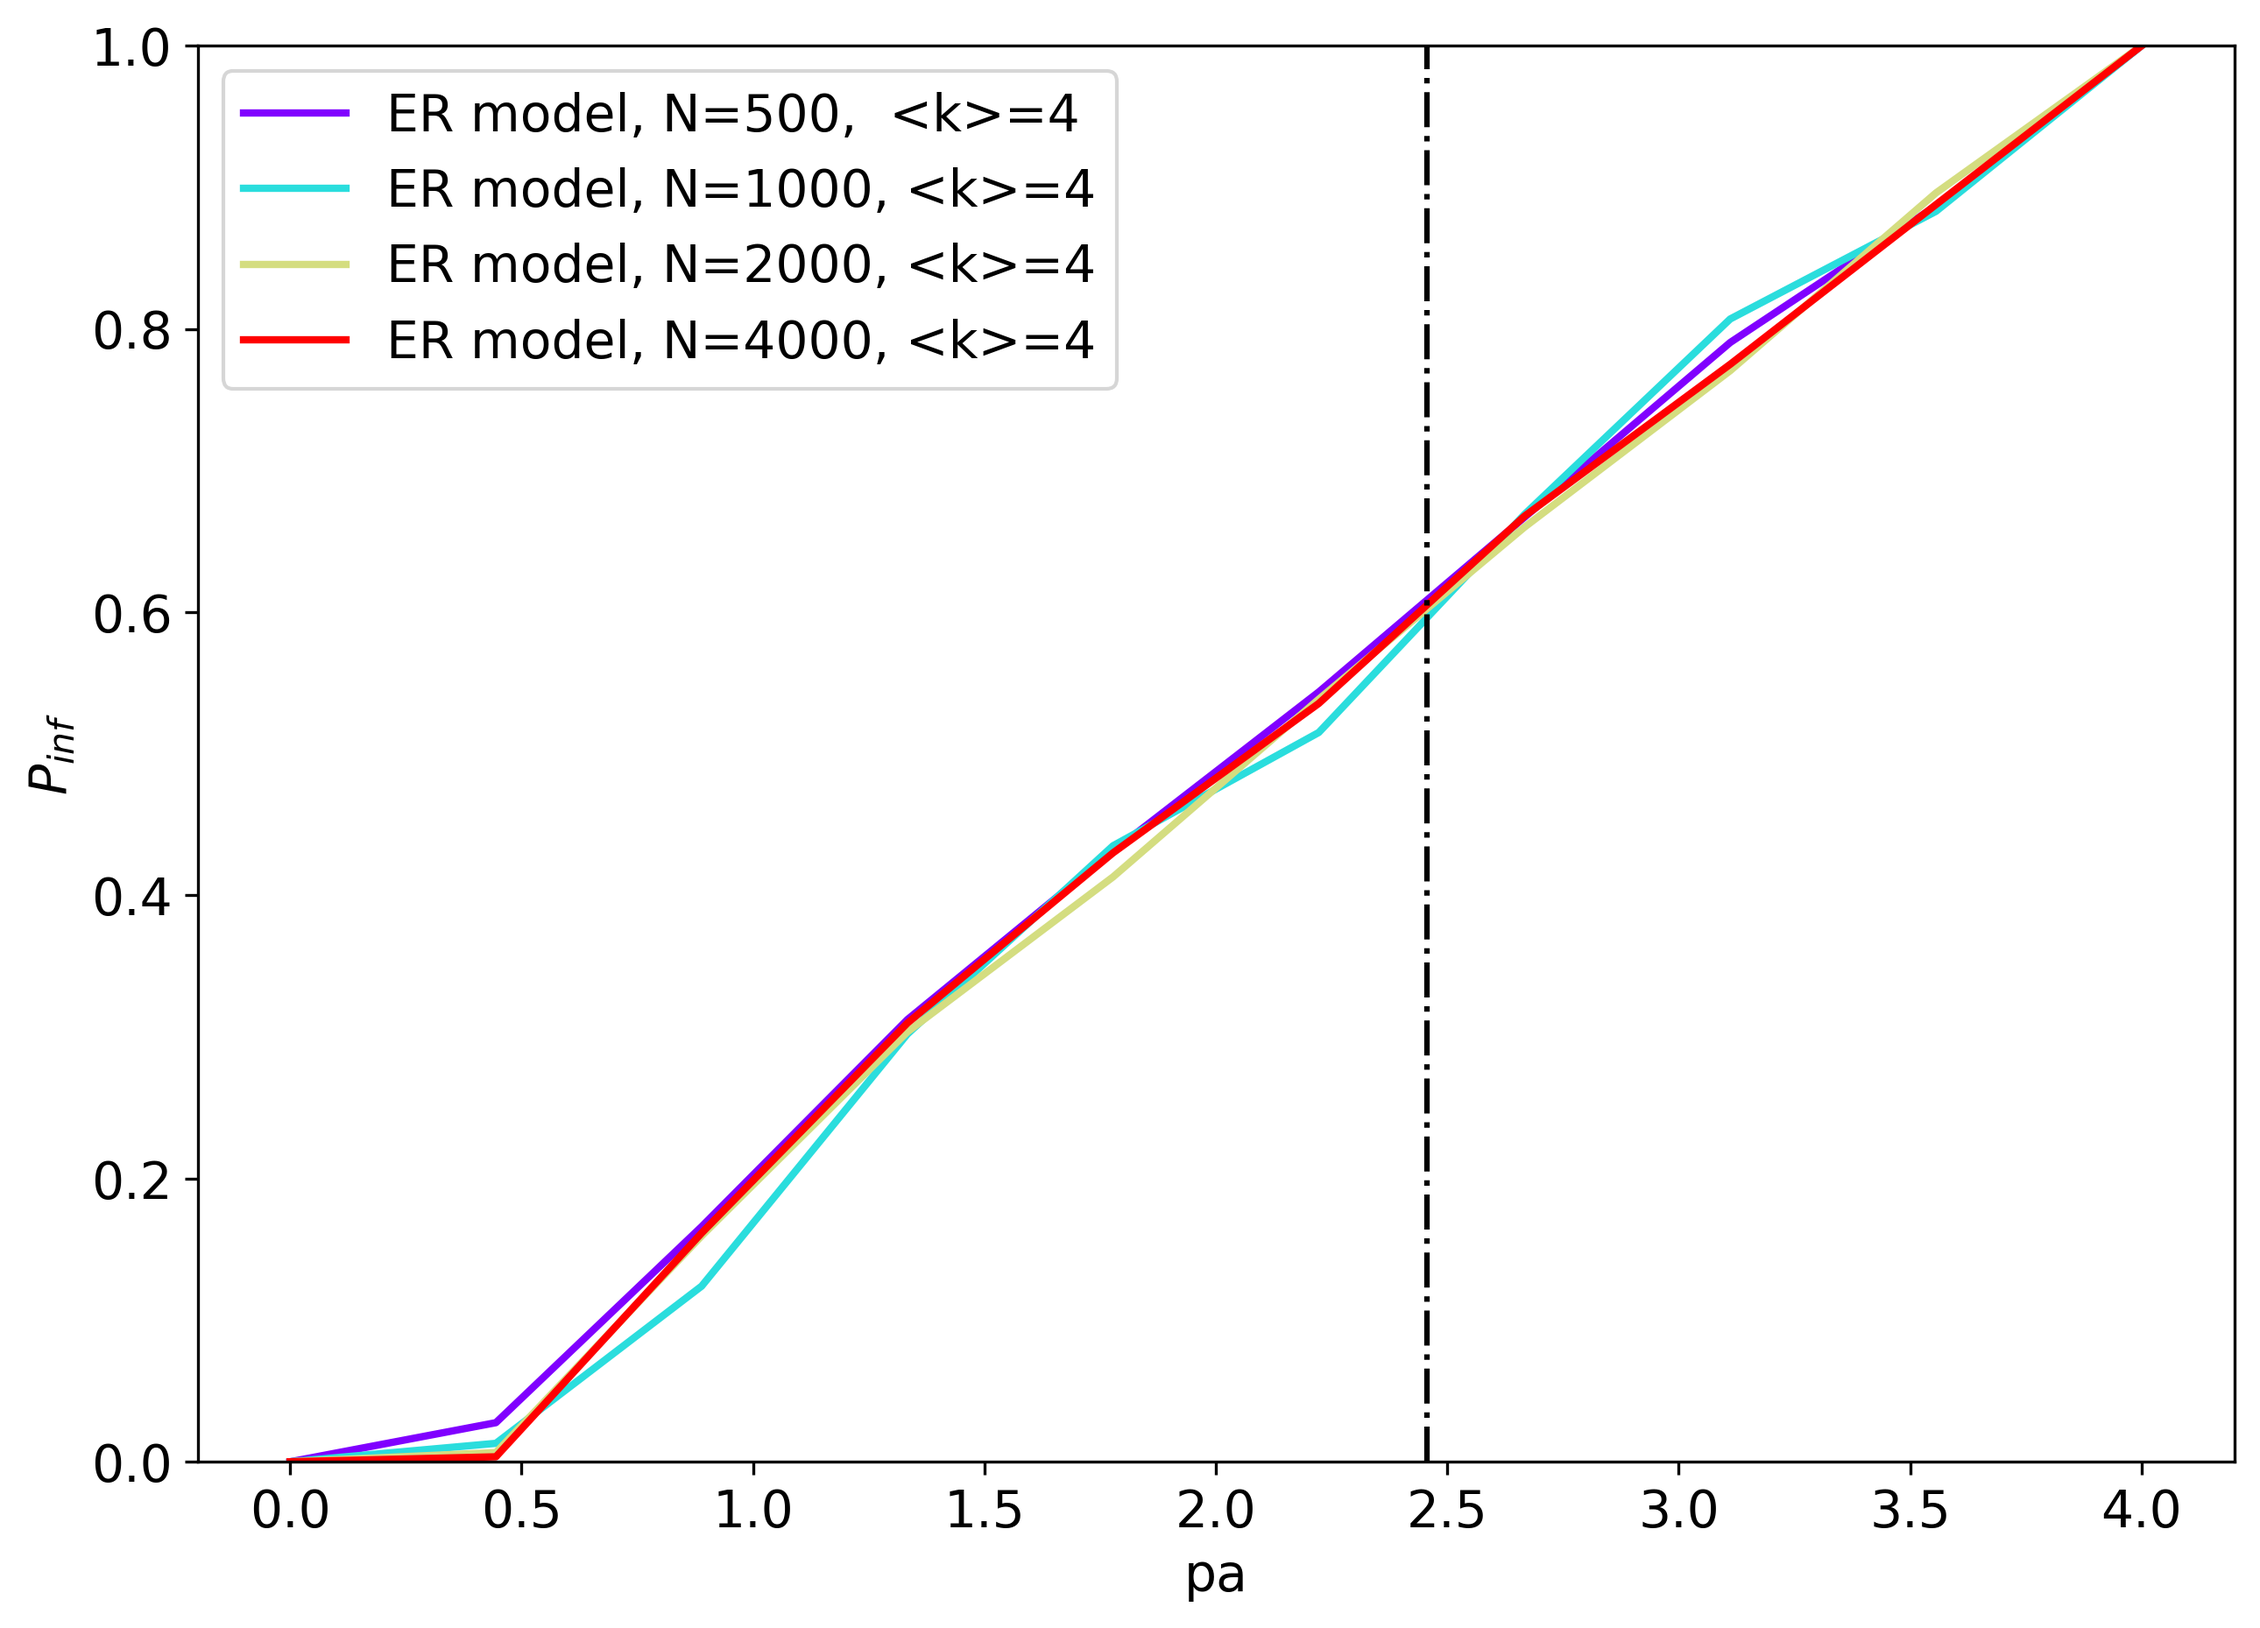
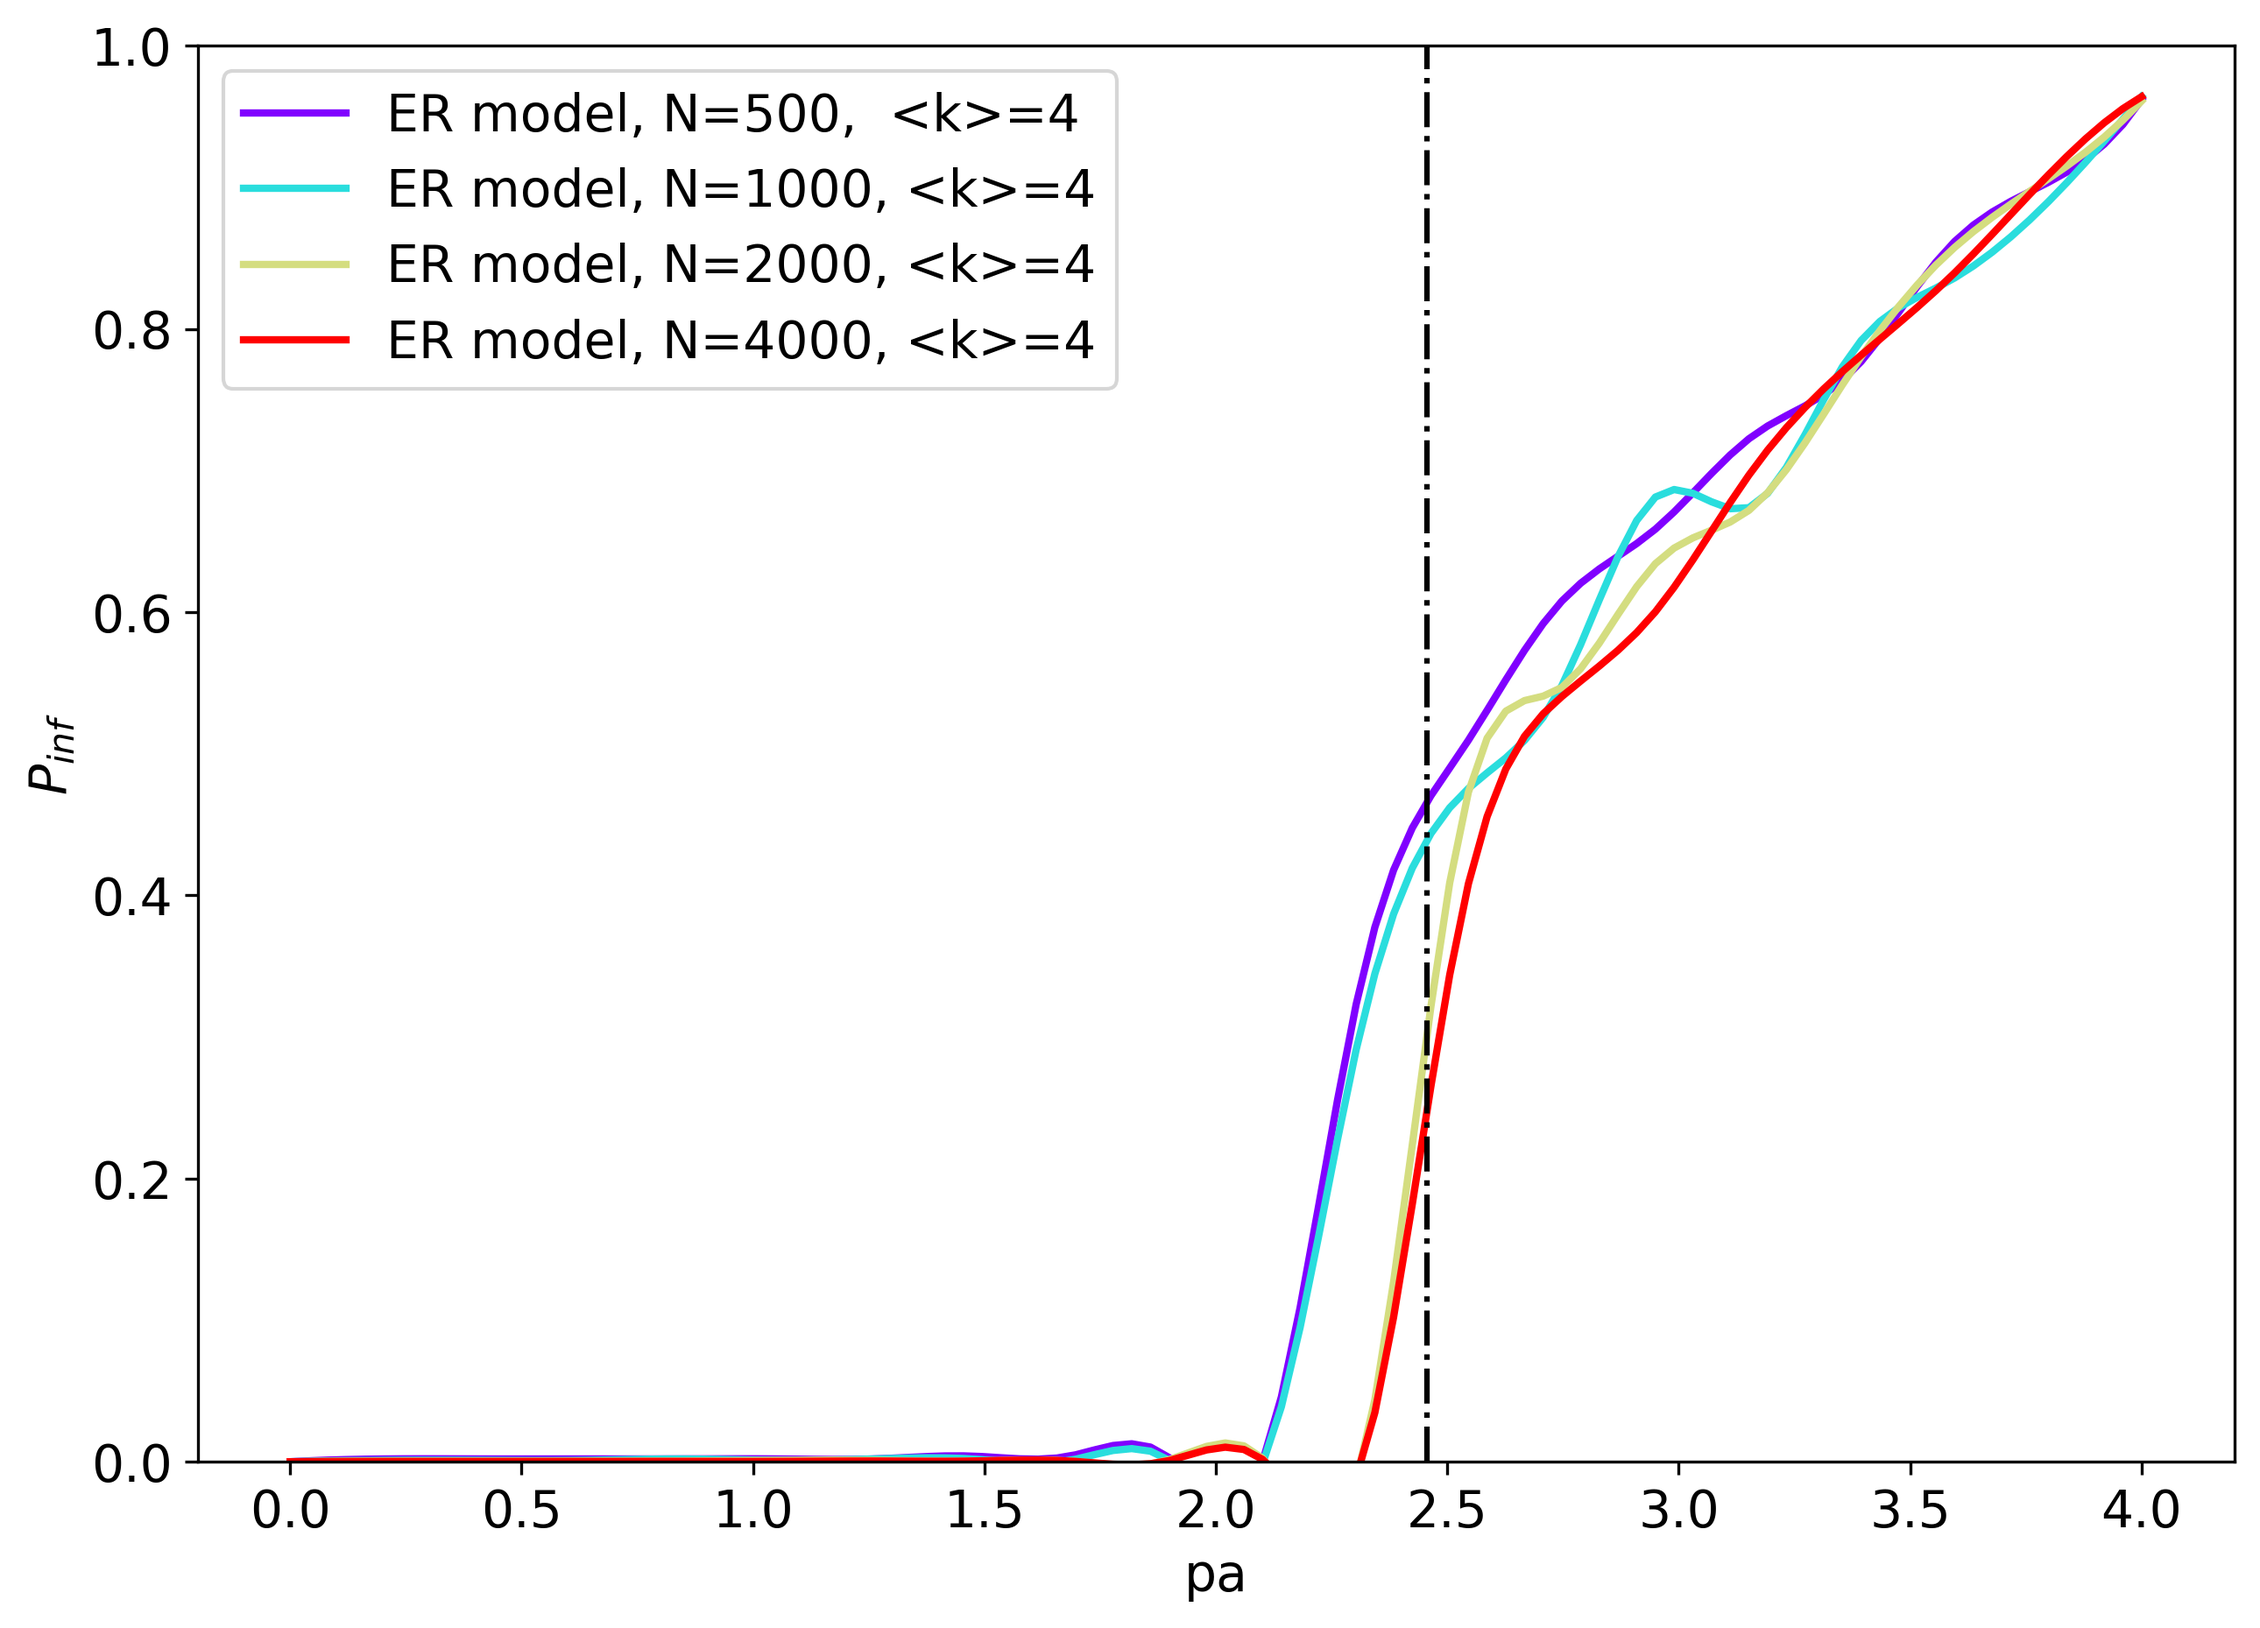
10.30

diff --git a/src/attack.py b/src/attack.py
@@ -11,11 +11,14 @@ def foreign_neighbors(node, G):
     """
     foreign = []
     t = G.nodes[node]['layer']
-    s = set(nx.all_neighbors(G, node))
+    s = set(G.neighbors(node))
     while s:
         x = s.pop()
         if G.nodes[x]['layer'] != t:
             foreign.append(x)
+
+    if len(foreign) == 0:
+        foreign = [None]
 
     return set(foreign)
 
@@ -79,22 +82,26 @@ def cascade_rec(G, g1, g2, counter, verbose):
         a, b = edges.pop()
         n1 = foreign_neighbors(a, G)
         n2 = foreign_neighbors(b, G)
+        if n1 == {None} or n2 == {None}:
+            continue
+
         for comp in components:
-            if (n1.issubset(comp) and (not n2.issubset(comp))) or ((not n1.issubset(comp)) and n2.issubset(comp)):
+            if (n1.issubset(comp) and not n2.issubset(comp)) or (not n1.issubset(comp) and n2.issubset(comp)):
                 G.remove_edge(a, b)
                 g2.remove_edge(a, b)
 
                 removed = 1
                 if verbose:
                     print('删除', (a, b))
+                break
 
     # 删除边后，检查其他边
     if removed == 1:
-        cascade_fail(G, g2, g1, 1, verbose)
+        cascade_rec(G, g2, g1, 1, verbose)
 
     # 计数器递减，递归出口
     if removed == 0 and counter > 0:
-        cascade_fail(G, g2, g1, counter - 1, verbose)
+        cascade_rec(G, g2, g1, counter - 1, verbose)
     return G, g1, g2
 
 
@@ -159,12 +166,7 @@ def attack_network(G, g1=nx.Graph(), g2=nx.Graph(), p=0.5, verbose=True):
 
     # 随机选择节点从网络g1移除
     candidates = set()
-    nodes = g1.nodes()
-    single = (len(nodes) == 0)
-    if single:
-        nodes = G.nodes()
-
-    for node in nodes:
+    for node in g1.nodes():
         if np.random.random() < 1 - p:
             candidates.add(node)
 
@@ -178,6 +180,5 @@ def attack_network(G, g1=nx.Graph(), g2=nx.Graph(), p=0.5, verbose=True):
         candidates.intersection_update(nodes_updated)
 
     # 递归检测集群并移除相邻网络的连边
-    if not single:
-        G, g1, g2 = cascade_rec_optional(G, g1, g2, 1, verbose)
-    return G
+    G2, g1, g2 = cascade_rec(G, g1, g2, 1, verbose)
+    return G2

diff --git a/src/measure.py b/src/measure.py
@@ -64,7 +64,7 @@ def giant_layercount(G, giant_comp):
     return layer1, layer2
 
 
-def generate_pinf_ER(n, k, t=2, hasGraph=False, files=[]):
+def generate_pinf_ER(n, k, t=2, hasGraph=False, files=[], s=0, e=1):
     """
     生成ER网络模型的数据
     :param n: 网络节点个数
@@ -84,20 +84,20 @@ def generate_pinf_ER(n, k, t=2, hasGraph=False, files=[]):
 
     else:
         start = datetime.now()
-        g1 = gen_rand.networkER_w_3Dpos(n, k, 1)
-        g2 = gen_rand.networkER_w_3Dpos(n, k, 2)
-        G_int = gen_rand.intd_random_net(g1, g2)
+        G_int, g1, g2 = gen_rand.new_network(n, k)
         time = datetime.now() - start
         print("级联网络已生成", time)
 
     p_infs = []
-    ps = np.linspace(0, 1, 10)
+    ps = np.linspace(s, e, 20)
     for p in tqdm(ps):
-        print("当前p:\n", p)
+        print("\n")
+        print("当前p:", p)
+        print("\n")
         start = datetime.now()
         mean_p_inf = 0
         for i in range(t):
-            print("本轮次数:", i+1, "/", t)
+            print("本轮次数:", i + 1, "/", t)
             G_att = att.attack_network(G_int, g1, g2, p, False)
             p_inf = compute_pinf(G_att, G_int)
             mean_p_inf += p_inf[0]
@@ -130,7 +130,7 @@ def plot_pinf(results, k=1, xlim=None, labels=None, path=None, p_theory=False, r
     for i, res in enumerate(results):
         pks = res[0] * k
         p_infs = res[1]
-        plt.plot(pks, p_infs, c=next(color), linewidth=2,  mfc="None")
+        plt.plot(pks, p_infs, c=next(color), linewidth=2, mfc="None")
 
     if p_theory:
         plt.vlines(2.4554, ymin=0, ymax=1, colors='k', linestyles='dashdot', label='$p_{c}$=2.4554/<k>')
@@ -143,8 +143,10 @@ def plot_pinf(results, k=1, xlim=None, labels=None, path=None, p_theory=False, r
     # plt.xlim(0,0.9)
     plt.ylim(0, 1)
     # plt.ylabel('$P_{node}$(in Gcomponent)')
+
     if labels:
         plt.legend(labels)
     plt.savefig(path, dpi=300, bbox_inches='tight')
+
     plt.grid()
     plt.show()

diff --git a/src/create.py b/src/create.py
@@ -42,36 +42,36 @@ def new_network(n, k):
         while n2:
             b = n2.pop()
             break
-        G.add_edge(a, b, Value=3)
+        G.add_edge(a, b, layer=3)
     return G, g1, g2
 
 
-def nodeSetting(G, layer=1):
-    """
-    生成(x,y,z)坐标，节点ID和属性设置级联方法(x,y)坐标遵循networkx spring布局
-    将(x,y,z)坐标保存为名为'3D_pos'节点的属性。该信息用于绘制相互依赖的图
-    :param G:
-    :param layer:
-    :return:
-    """
-    pos = nx.spring_layout(G)
-    for node in pos:
-        pos[node] = np.append(pos[node], layer)
-    nx.set_node_attributes(G, pos, name='3D_pos')
-
-    # 添加节点属性 'layer'
-    for node in G.nodes():
-        G.nodes[node]['layer'] = layer
-
-    for e in G.edges():
-        G.edges[e]['lager'] = layer
-
-    # 节点重命名
-    mapping = {}
-    for node in G.nodes():
-        mapping[node] = str(layer) + '-' + str(node)
-
-    return nx.relabel_nodes(G, mapping)
+# def nodeSetting(G, layer=1):
+#     """
+#     生成(x,y,z)坐标，节点ID和属性设置级联方法(x,y)坐标遵循networkx spring布局
+#     将(x,y,z)坐标保存为名为'3D_pos'节点的属性。该信息用于绘制相互依赖的图
+#     :param G:
+#     :param layer:
+#     :return:
+#     """
+#     pos = nx.spring_layout(G)
+#     for node in pos:
+#         pos[node] = np.append(pos[node], layer)
+#     nx.set_node_attributes(G, pos, name='3D_pos')
+#
+#     # 添加节点属性 'layer'
+#     for node in G.nodes():
+#         G.nodes[node]['layer'] = layer
+#
+#     for e in G.edges():
+#         G.edges[e]['lager'] = layer
+#
+#     # 节点重命名
+#     mapping = {}
+#     for node in G.nodes():
+#         mapping[node] = str(layer) + '-' + str(node)
+#
+#     return nx.relabel_nodes(G, mapping)
 
 
 def SF_powerlaw_exp(G):

diff --git a/scripts/plot2.py b/scripts/plot2.py
@@ -2,7 +2,7 @@ import matplotlib.pyplot as plt
 
 from src.measure import *
 import numpy as np
-from scipy.interpolate import make_interp_spline
+from scipy.interpolate import make_interp_spline, interp1d
 
 ER500 = np.loadtxt('../notebooks/results/ER/t20/ERn500k4_20.csv', delimiter=",")
 ER1000 = np.loadtxt('../notebooks/results/ER/t20/ERn1000k4_20.csv', delimiter=",")
@@ -11,21 +11,32 @@ ER4000 = np.loadtxt('../notebooks/results/ER/t20/ERn4000k4_20.csv', delimiter=",
 k = 4
 path = '../notebooks/figure/figure4.png'
 results = [ER500, ER1000, ER2000, ER4000]
-print(results)
-# 画图
+# results = [ER500, ER1000]
+# results = [ER500, ER1000, ER2000]
+
+re = []
+for data in [ER500, ER1000, ER2000, ER4000]:
+    x = data[0]
+    y = data[1]
+    model = make_interp_spline(x, y)
+    xs = np.linspace(0, 1, 100)
+    ys = model(xs)
+    re.append([xs, ys])
+
 plt.figure(figsize=(10, 7))
 plt.rcParams.update({'font.size': 14})
+
 for i, res in enumerate(results):
     pks = res[0] * k
     p_infs = res[1]
-    plt.plot(pks,p_infs)
+    plt.plot(pks, p_infs)
 
 plt.vlines(2.4554, ymin=0, ymax=1, colors='k', linestyles='dashdot', label='$p_{c}$=2.4554/<k>')
 plt.xlabel('pa')
 plt.ylabel('$P_{inf}$')
-plt.ylim(0, 1)
-plt.xlim(2.36, 2.5)
-plt.savefig(path, dpi=300, bbox_inches='tight')
+# plt.ylim(0, 1)
+# plt.xlim(2.5, 3)
+plt.savefig(path, dpi=600, bbox_inches='tight')
 # 生成网格线
 plt.grid()
 plt.show()

diff --git a/scripts/plot.py b/scripts/plot.py
@@ -9,16 +9,16 @@ ER4000 = np.loadtxt('../notebooks/results/ER/t20/ERn4000k4_20.csv', delimiter=",
 
 # 平滑曲线
 re = []
-# for data in [ER500, ER1000, ER2000, ER4000]:
-#     x = data[0]
-#     y = data[1]
-#     model = make_interp_spline(x, y)
-#     xs = np.linspace(0, 1, 100)
-#     ys = model(xs)
-#     re.append([xs, ys])
+for data in [ER500, ER1000, ER2000, ER4000]:
+    x = data[0]
+    y = data[1]
+    model = make_interp_spline(x, y)
+    xs = np.linspace(0, 1, 100)
+    ys = model(xs)
+    re.append([xs, ys])
 
 
-plot_pinf([ER500, ER1000, ER2000, ER4000], k=4,
+plot_pinf(re, k=4,
           labels=["ER model, N=500,  <k>=4", "ER model, N=1000, <k>=4", "ER model, N=2000, <k>=4",
                   "ER model, N=4000, <k>=4",
                   ],

diff --git a/scripts/ER_04_t20.py b/scripts/ER_04_t20.py
@@ -3,6 +3,5 @@ from src.measure import *
 print("\n++++++++++++++++++++++++++++++")
 print("ER N500 Test Start...")
 print("++++++++++++++++++++++++++++++\n")
-ERn500k4_20 = generate_pinf_ER(500, 4, 10)
+ERn500k4_20 = generate_pinf_ER(500, 4, 1)
 np.savetxt('../notebooks/results/ER/t20/ERn500k4_20.csv', ERn500k4_20, delimiter=',')
-

diff --git a/scripts/ER_02_t20.py b/scripts/ER_02_t20.py
@@ -5,3 +5,4 @@ print("ER N2000 Test Start...")
 print("++++++++++++++++++++++++++++++\n")
 ERn2000k4_20 = generate_pinf_ER(2000, 4, 1)
 np.savetxt('../notebooks/results/ER/t20/ERn2000k4_20.csv', ERn2000k4_20, delimiter=',')
+
